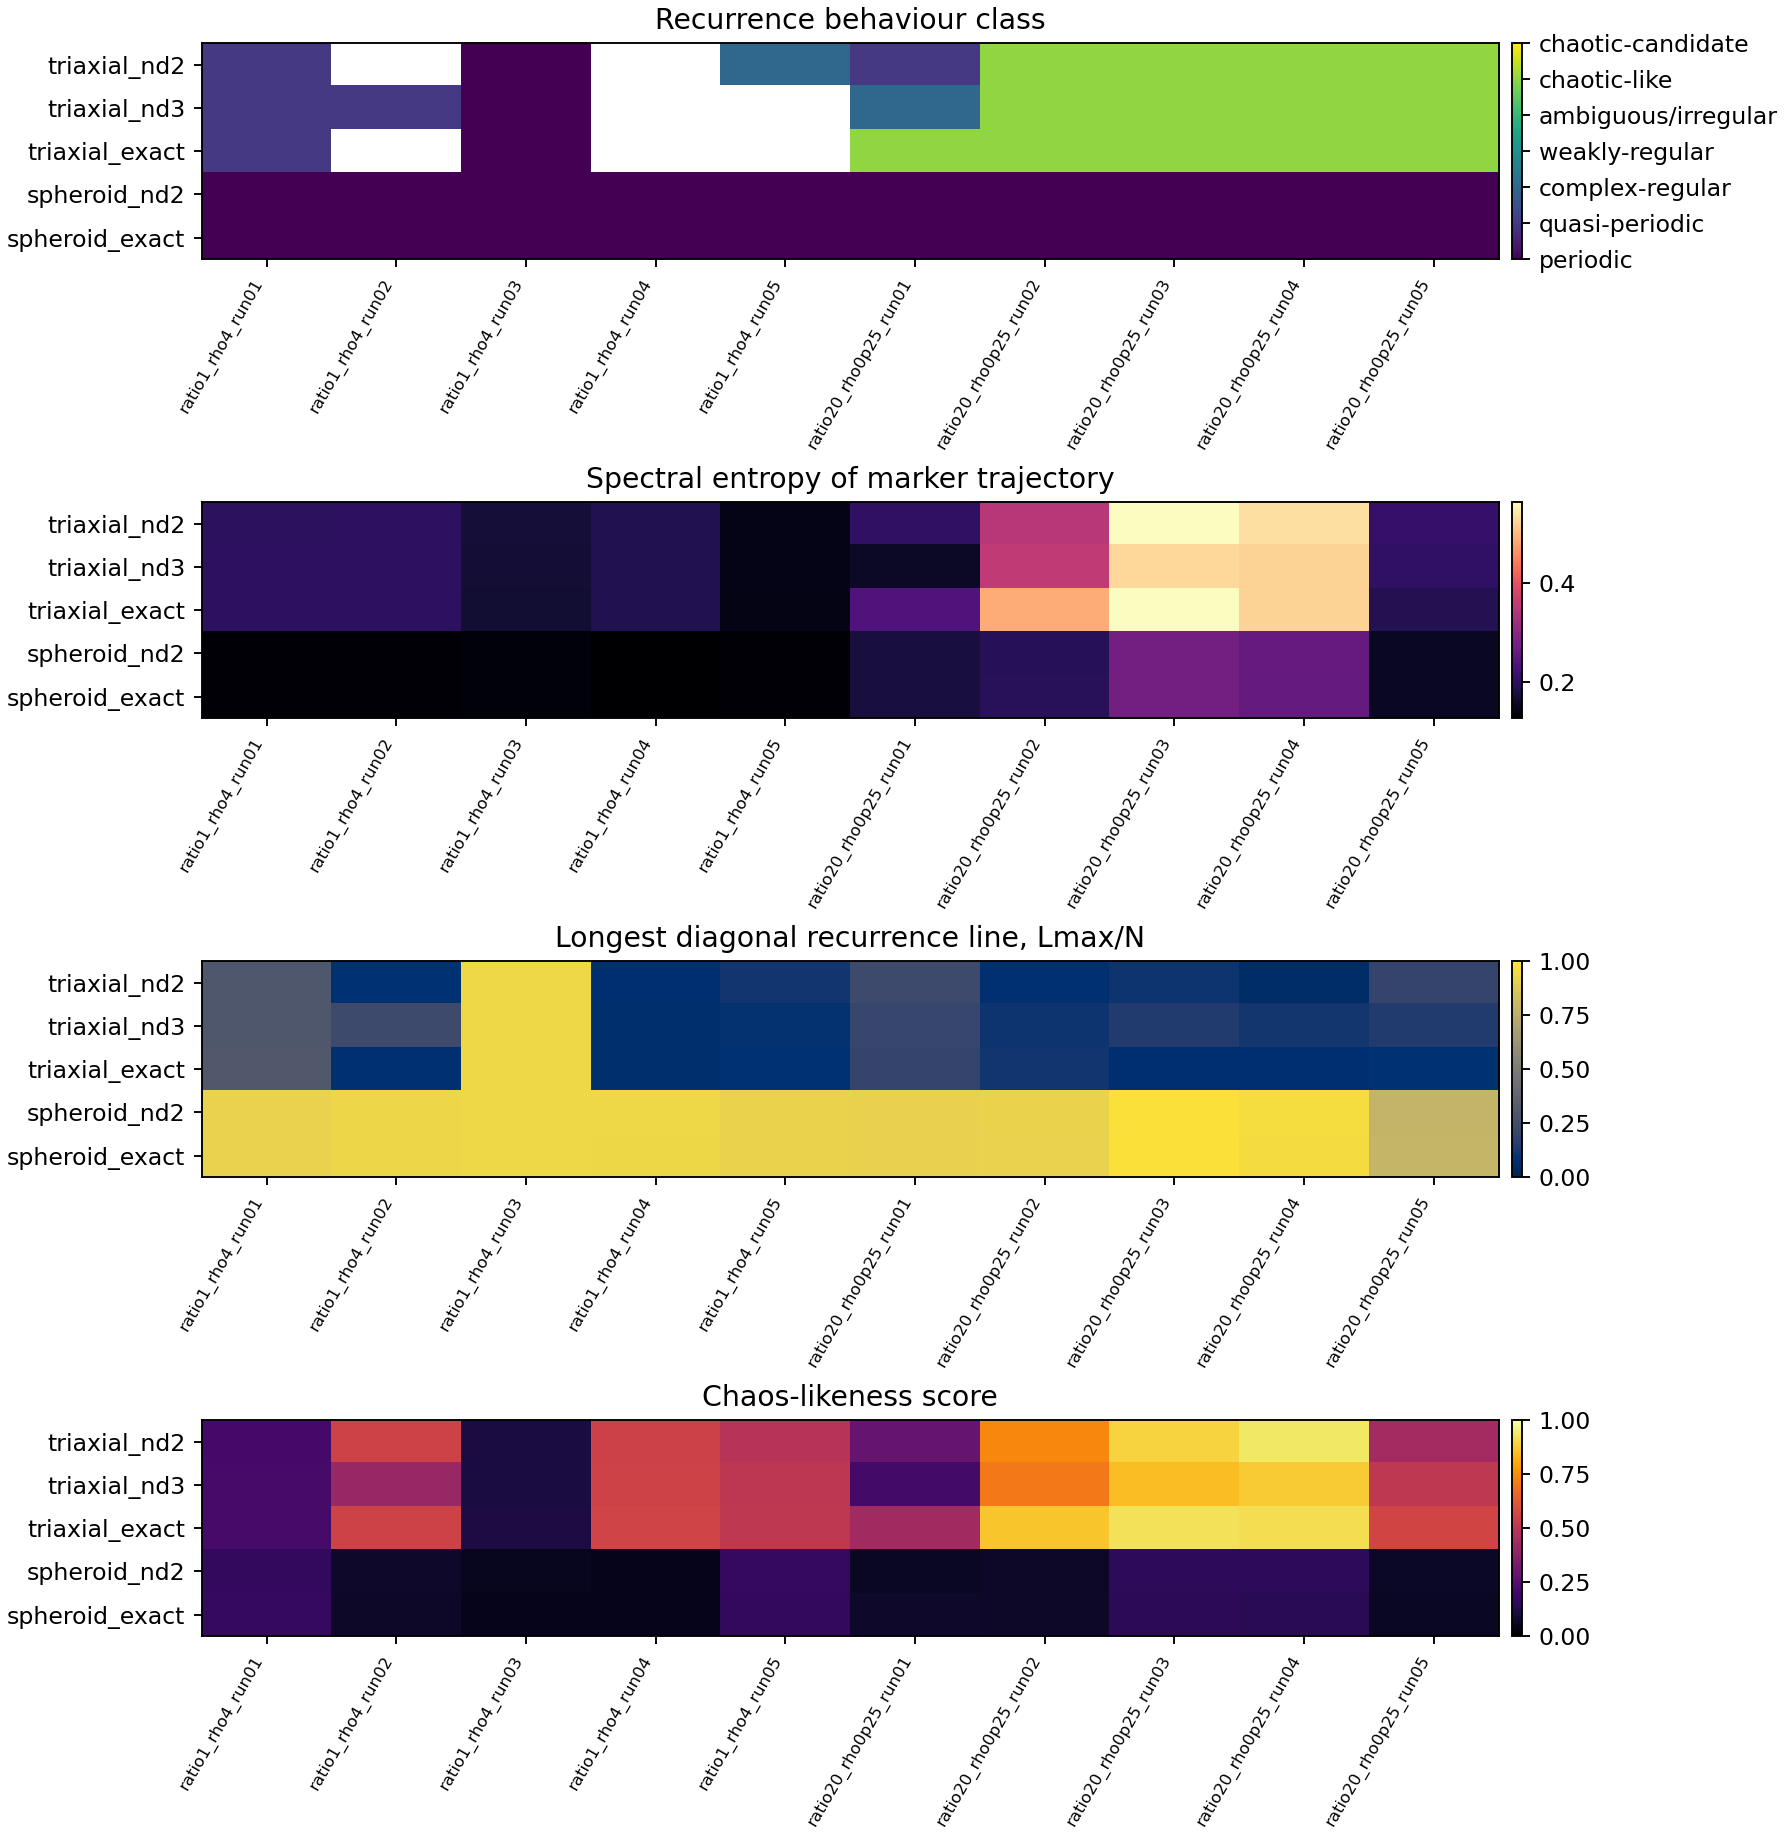
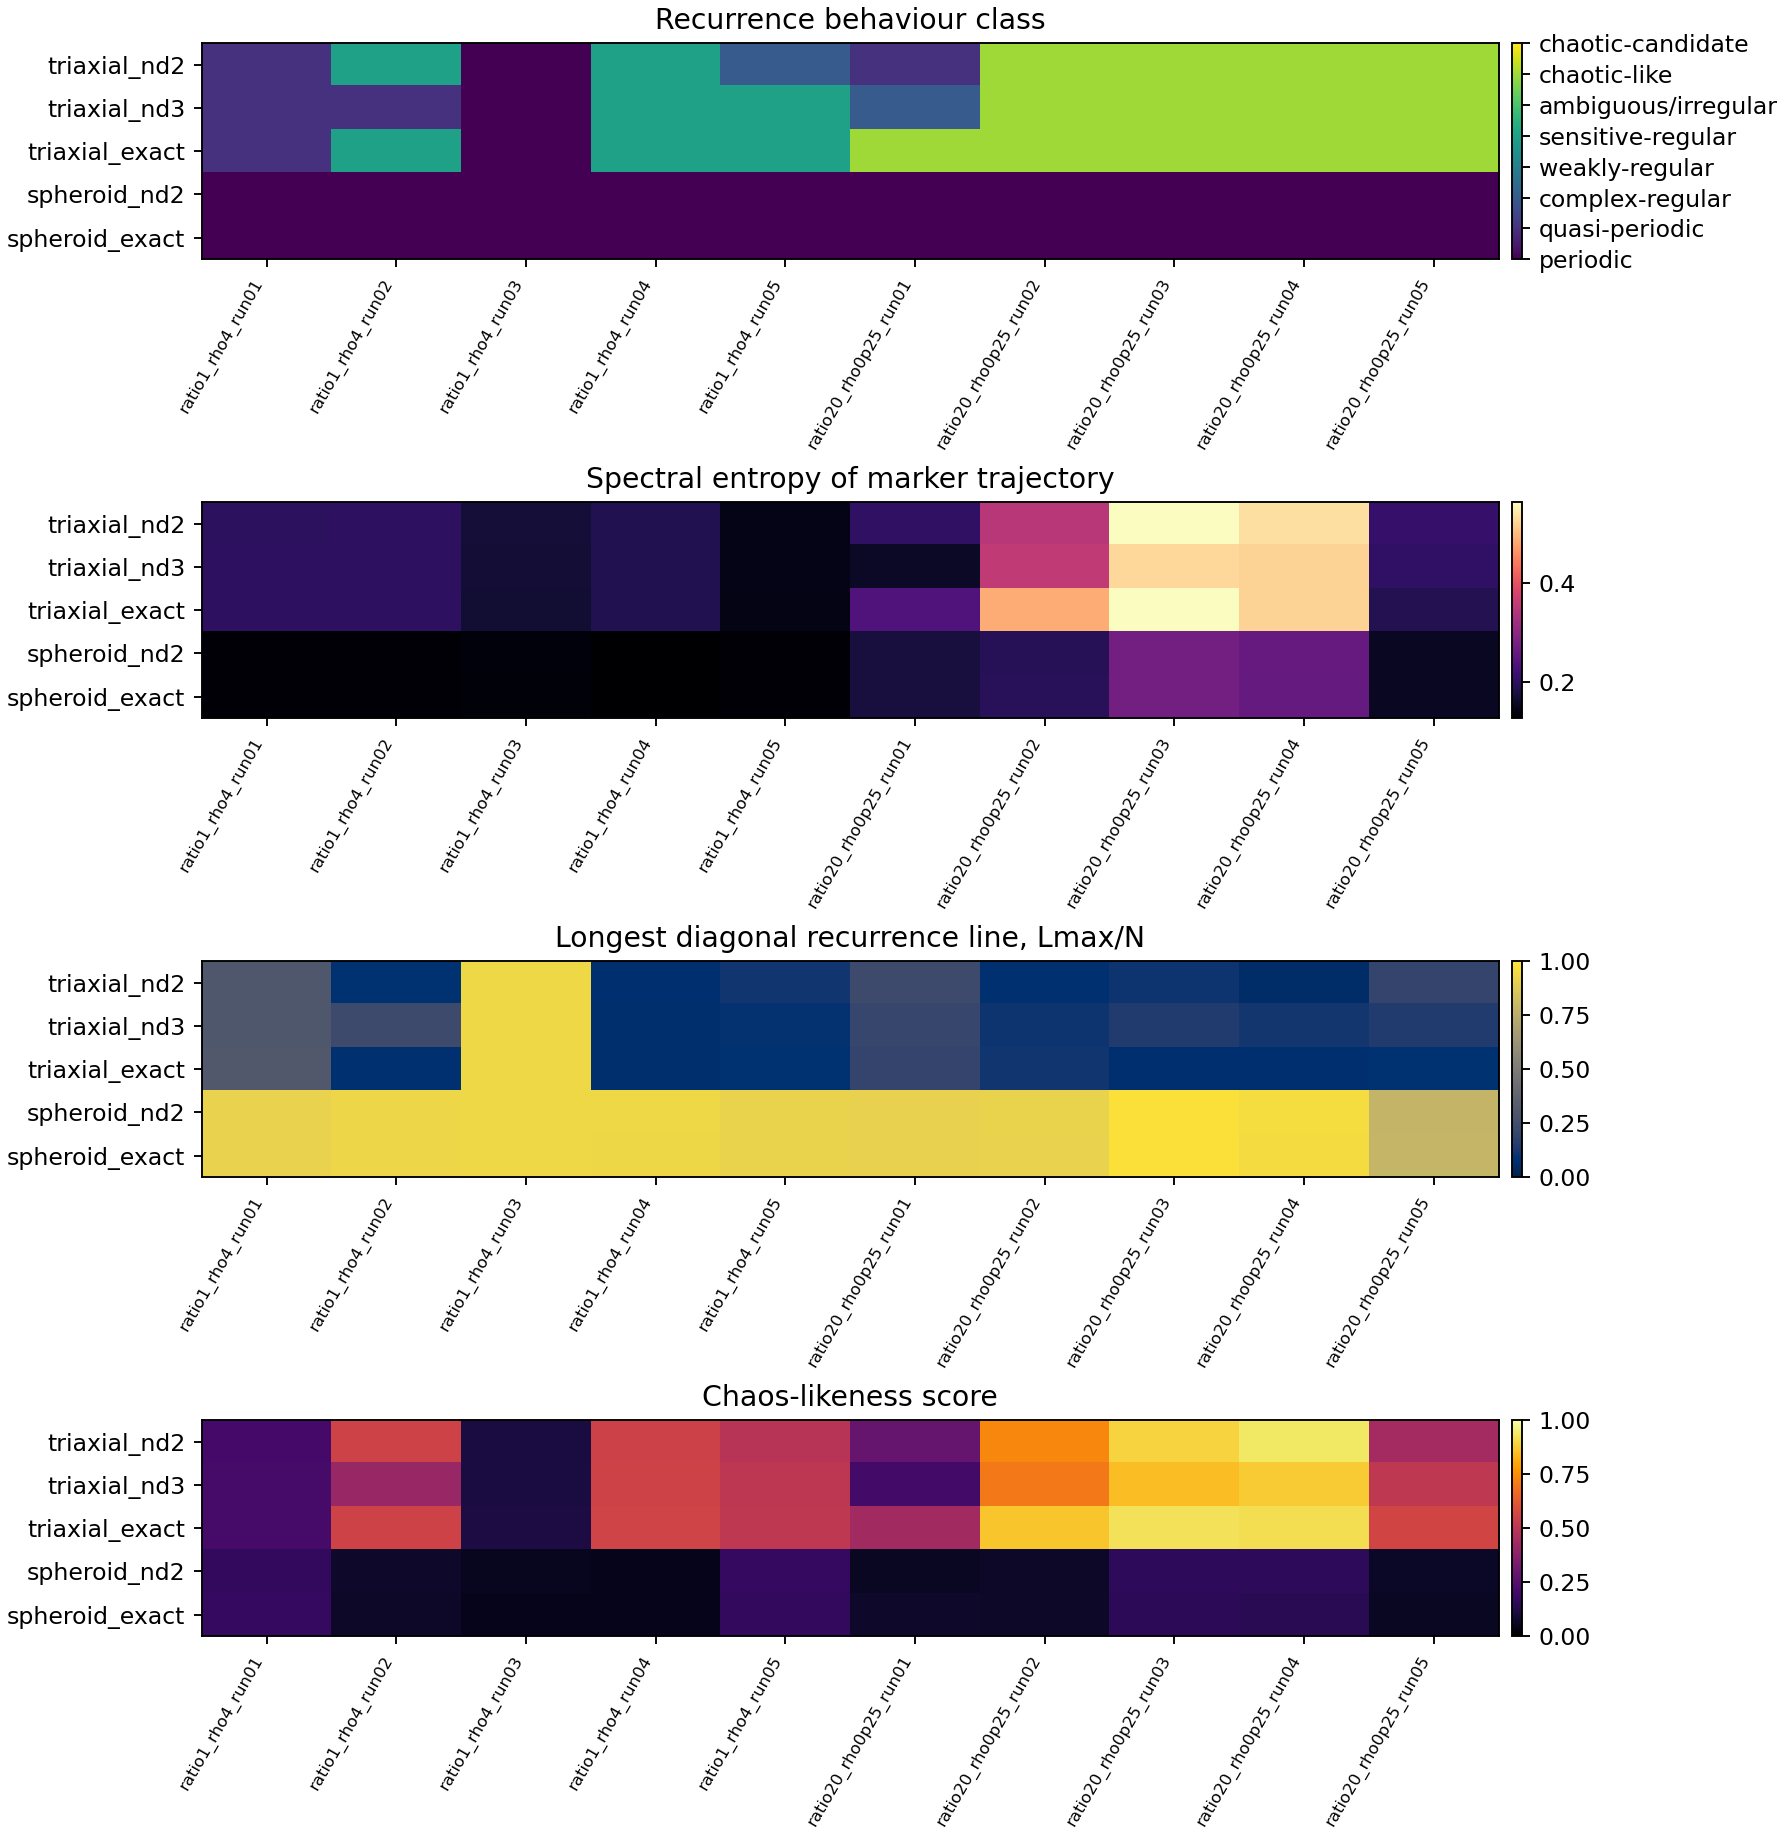
Show sensitive regular recurrence class

Changed region(s): [[0.3081, 0.0, 0.493, 0.0931], [0.8627, 0.031, 0.986, 0.1242], [0.1849, 0.0, 0.2773, 0.0931]]

diff --git a/studies/ke_ratio_density/analyze_recurrence_comparison.py b/studies/ke_ratio_density/analyze_recurrence_comparison.py
@@ -623,9 +623,10 @@ def plot_overview(rows: list[dict[str, float | str]], agreement: list[dict[str, 
         "quasi-periodic": 1,
         "complex-regular": 2,
         "weakly-regular": 3,
-        "ambiguous/irregular": 4,
-        "chaotic-like": 5,
-        "chaotic-candidate": 6,
+        "sensitive-regular": 4,
+        "ambiguous/irregular": 5,
+        "chaotic-like": 6,
+        "chaotic-candidate": 7,
         "": np.nan,
     }
     class_grid = np.full((len(sources), len(cases)), np.nan)
@@ -643,7 +644,15 @@ def plot_overview(rows: list[dict[str, float | str]], agreement: list[dict[str, 
             chaos_grid[i, j] = float(row["chaos_score"])
 
     fig, axes = plt.subplots(4, 1, figsize=(max(10.5, 0.55 * len(cases)), 10.8), constrained_layout=True)
-    im0 = axes[0].imshow(class_grid, aspect="auto", interpolation="nearest", vmin=0, vmax=6, cmap="viridis")
+    finite_classes = [value for value in class_order.values() if np.isfinite(value)]
+    im0 = axes[0].imshow(
+        class_grid,
+        aspect="auto",
+        interpolation="nearest",
+        vmin=min(finite_classes),
+        vmax=max(finite_classes),
+        cmap="viridis",
+    )
     axes[0].set_title("Recurrence behaviour class")
     axes[0].set_yticks(range(len(sources)), sources)
     axes[0].set_xticks(range(len(cases)), cases, rotation=60, ha="right", fontsize=7)